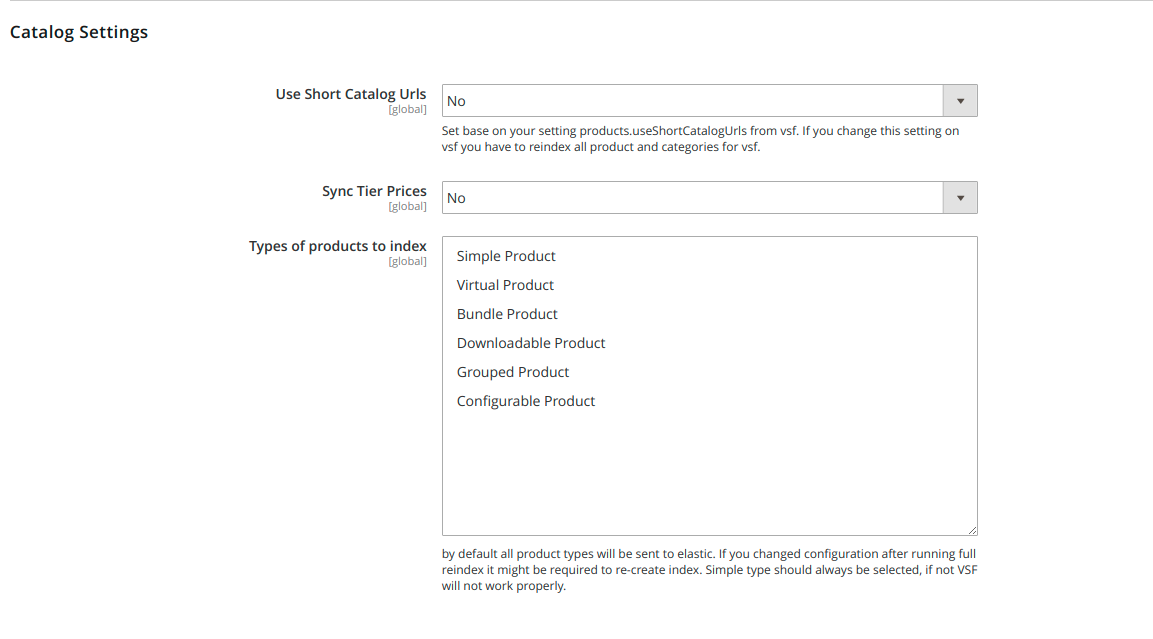
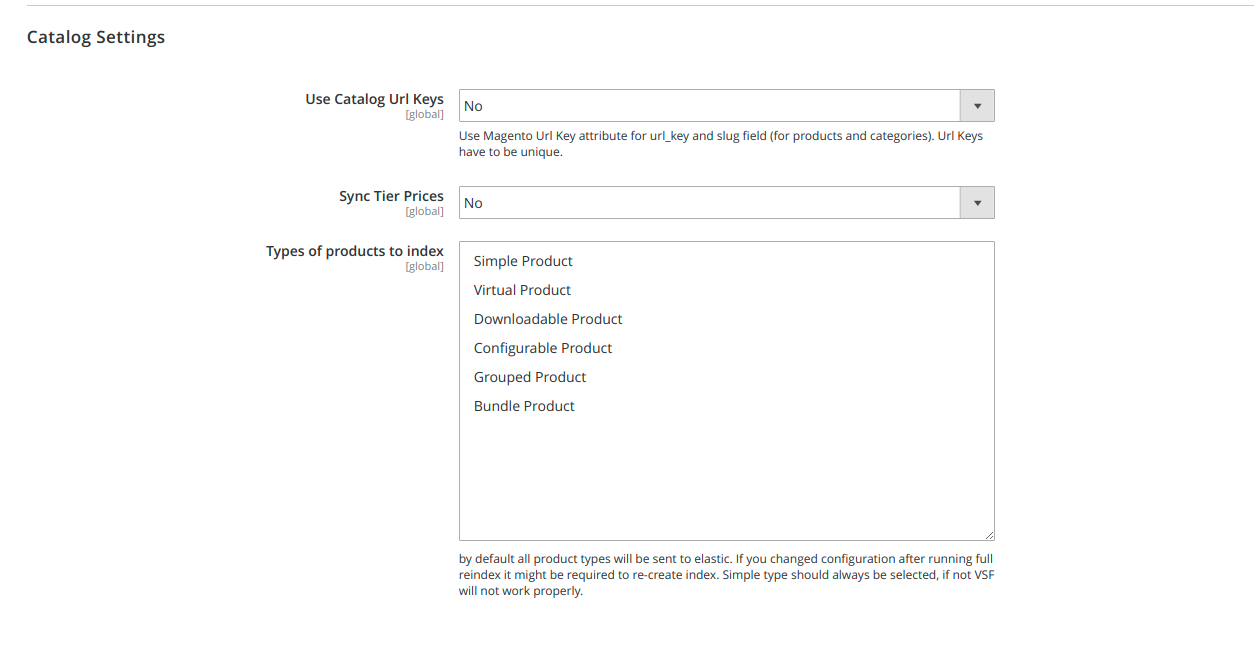
Change label for use_magento_url_keys, set slug and url_key base on configuration.

diff --git a/src/module-vsbridge-indexer-catalog/Model/Indexer/DataProvider/Product/AttributeData.php b/src/module-vsbridge-indexer-catalog/Model/Indexer/DataProvider/Product/AttributeData.php
@@ -87,6 +87,7 @@ class AttributeData implements DataProviderInterface
             } else {
                 $slug = $this->slugGenerator->generate($productData['name'], $entityId);
                 $productData['slug'] = $slug;
+                $productData['url_key'] = $slug;
             }
 
             $indexData[$entityId] = $productData;

diff --git a/README.md b/README.md
@@ -140,7 +140,7 @@ Go to the new ‘Indexer’ section (Stores → Configuration → Vuestorefront 
 
 1. Catalog Settings
     
-    Use Short Catalog Urls → by default this option is disabled. The short Catalog Urls must be aligned with the VSF configuration. After any changes in the VSF configuration, the configuration in the Magento Panel must be updated and all products and categories indexed anew.
+    Use Catalog Url Keys → by default this option is disabled. Use Magento Url Key attribute for url_key and slug field (for products and categories). Url Keys have to be unique
     
     Sync Tier Prices → by default this option is disabled. Used to sync products tier prices. 
     
@@ -192,6 +192,7 @@ Note: If a docker with ElasticSearch is disabled, Indexer will display error: "N
      
 ### Compatibility
 
+-- Vue Storefront >= 1.4.4
 Module was tested on:
  -- Magento Community version 2.2.7 It should perform without any issues on Magento 2.2.6 and above versions. 
  -- Magento Enterprise version 2.3.0. The bridge indexer cannot be installed on lower versions of Magento Enterprise.
